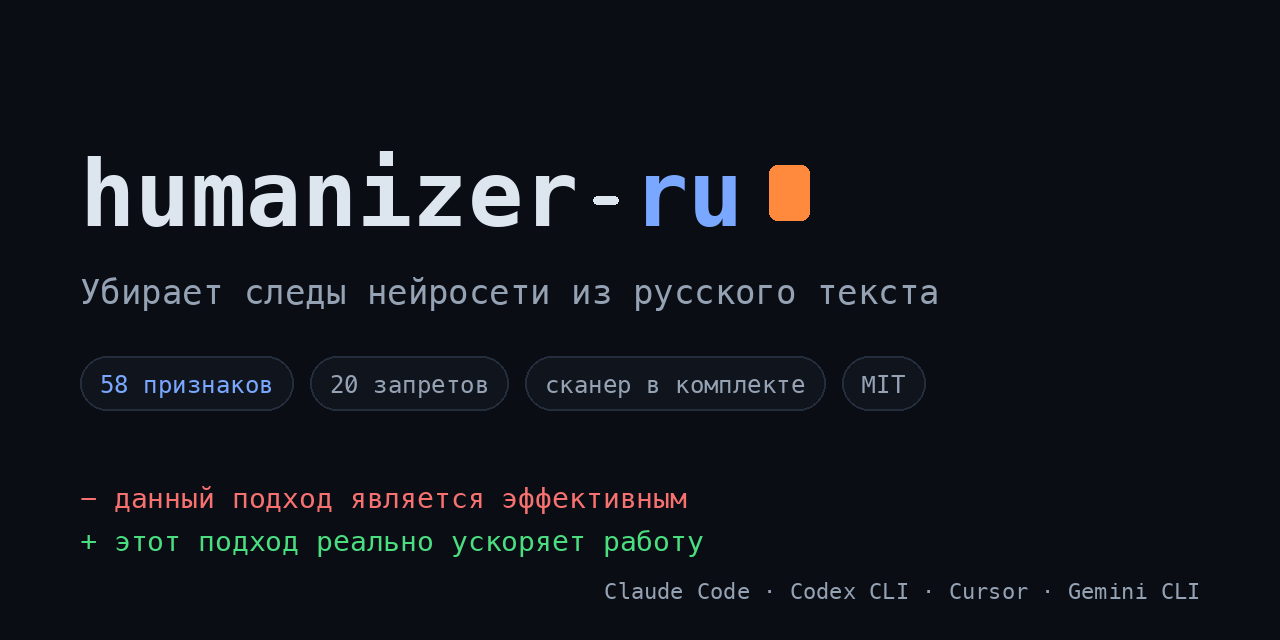
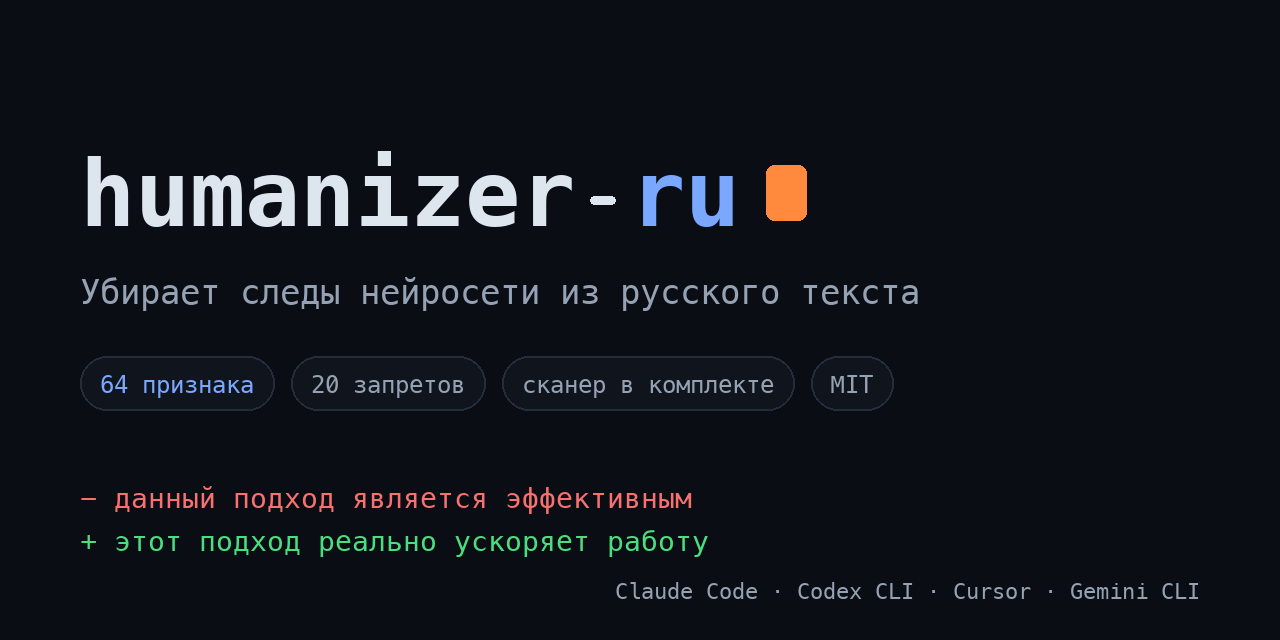
chore: счётчики 64/14 по витрине, превью пересобрано
bump_release.py --apply протащил 64 паттерна / 14 категорий по README,
docs и манифестам; падежные формы при новом числе поправлены руками
(64 признака, не «64 признаков»). make_social_preview.py теперь сам
склоняет подпись чипа по числу. В списки категорий README добавлена
строка N.

diff --git a/docs/52-priznaka-ai-teksta.html b/docs/52-priznaka-ai-teksta.html
@@ -3,19 +3,19 @@
 <head>
 <meta charset="utf-8">
 <meta name="viewport" content="width=device-width, initial-scale=1">
-<title>58 признаков AI-текста на русском: полный список</title>
-<meta name="description" content="Полный справочник: 58 признаков AI-текста на русском по 13 категориям. Канцелярит, кальки, «является», длинные тире, правило трёх, псевдо-терапия.">
+<title>64 признака AI-текста на русском: полный список</title>
+<meta name="description" content="Полный справочник: 64 признака AI-текста на русском по 14 категориям. Канцелярит, кальки, «является», длинные тире, правило трёх, псевдо-терапия.">
 <meta name="keywords" content="признаки нейросети в тексте, признаки ии в тексте, как определить текст нейросети, маркеры ai текста на русском, убрать признаки нейросети">
 <link rel="canonical" href="https://humanizer-ru.aifrontier.tech/52-priznaka-ai-teksta.html">
 <meta property="og:type" content="article">
-<meta property="og:title" content="58 признаков AI-текста на русском: полный список">
-<meta property="og:description" content="Справочник из 58 маркеров машинного текста на русском, сгруппированных по 13 категориям.">
+<meta property="og:title" content="64 признака AI-текста на русском: полный список">
+<meta property="og:description" content="Справочник из 64 маркеров машинного текста на русском, сгруппированных по 14 категориям.">
 <meta property="og:url" content="https://humanizer-ru.aifrontier.tech/52-priznaka-ai-teksta.html">
 <meta property="og:locale" content="ru_RU">
 <meta property="og:image" content="https://humanizer-ru.aifrontier.tech/social-preview.png">
 <meta name="twitter:card" content="summary_large_image">
-<meta name="twitter:title" content="58 признаков AI-текста на русском">
-<meta name="twitter:description" content="Полный справочник маркеров машинного текста по 13 категориям.">
+<meta name="twitter:title" content="64 признака AI-текста на русском">
+<meta name="twitter:description" content="Полный справочник маркеров машинного текста по 14 категориям.">
 <meta name="twitter:image" content="https://humanizer-ru.aifrontier.tech/social-preview.png">
 <link rel="icon" type="image/png" href="icon-128.png">
 <link rel="preconnect" href="https://fonts.googleapis.com">
@@ -25,8 +25,8 @@
 {
   "@context": "https://schema.org",
   "@type": "TechArticle",
-  "headline": "58 признаков AI-текста на русском: полный список",
-  "description": "Полный справочник из 58 признаков машинного текста на русском, сгруппированных по 13 категориям.",
+  "headline": "64 признака AI-текста на русском: полный список",
+  "description": "Полный справочник из 64 признаков машинного текста на русском, сгруппированных по 14 категориям.",
   "inLanguage": "ru",
   "author": { "@type": "Organization", "name": "humanizer-ru" },
   "publisher": { "@type": "Organization", "name": "humanizer-ru" },
@@ -40,7 +40,7 @@
   "@type": "BreadcrumbList",
   "itemListElement": [
     { "@type": "ListItem", "position": 1, "name": "Главная", "item": "https://humanizer-ru.aifrontier.tech/" },
-    { "@type": "ListItem", "position": 2, "name": "58 признаков AI-текста", "item": "https://humanizer-ru.aifrontier.tech/52-priznaka-ai-teksta.html" }
+    { "@type": "ListItem", "position": 2, "name": "64 признака AI-текста", "item": "https://humanizer-ru.aifrontier.tech/52-priznaka-ai-teksta.html" }
   ]
 }
 </script>
@@ -53,7 +53,7 @@
     <nav class="site-nav" aria-label="Основное меню">
       <a href="index.html">Главная</a>
       <a href="kak-ubrat-sledy-neyroseti.html">Убрать следы нейросети</a>
-      <a href="52-priznaka-ai-teksta.html" aria-current="page">58 признаков</a>
+      <a href="52-priznaka-ai-teksta.html" aria-current="page">64 признака</a>
       <a href="ai-detektory-na-russkom.html">AI-детекторы</a>
       <a href="antiplagiat-i-neyroset.html">Антиплагиат и ИИ</a>
     </nav>
@@ -72,11 +72,11 @@
 <div class="wrap">
 
   <nav class="crumbs" aria-label="Хлебные крошки">
-    <a href="index.html">Главная</a> / 58 признаков AI-текста
+    <a href="index.html">Главная</a> / 64 признака AI-текста
   </nav>
 
-  <h1>58 признаков AI-текста на русском</h1>
-  <p class="lede">Полный справочник маркеров машинного текста, сгруппированный по 13 категориям (A-M). Это основа, по которой работает скилл <a href="index.html">humanizer-ru</a>. Каждый пункт это одна строка: что именно выдаёт нейросеть.</p>
+  <h1>64 признака AI-текста на русском</h1>
+  <p class="lede">Полный справочник маркеров машинного текста, сгруппированный по 14 категориям (A-M). Это основа, по которой работает скилл <a href="index.html">humanizer-ru</a>. Каждый пункт это одна строка: что именно выдаёт нейросеть.</p>
 
   <div class="callout">
     <strong>Как пользоваться.</strong> Не нужно убирать всё подряд. Сначала жёсткие баны (длинное тире, «является», шаблонные открытия), потом стилистика и ритм. Как это делать руками, смотрите в гайде <a href="kak-ubrat-sledy-neyroseti.html">«Как убрать следы нейросети»</a>.
@@ -223,7 +223,7 @@
   </div>
 
   <h2>Что с этим делать</h2>
-  <p>Знать признаки это половина дела. Убирать их руками в каждом тексте долго. Скилл <a href="index.html">humanizer-ru</a> проходит по всем 58 пунктам автоматически и калибрует текст под голос автора. Практическую методику для ручной правки смотрите в гайде <a href="kak-ubrat-sledy-neyroseti.html">«Как убрать следы нейросети»</a>, а про надёжность проверки в статье <a href="ai-detektory-na-russkom.html">про AI-детекторы на русском</a>.</p>
+  <p>Знать признаки это половина дела. Убирать их руками в каждом тексте долго. Скилл <a href="index.html">humanizer-ru</a> проходит по всем 64 пунктам автоматически и калибрует текст под голос автора. Практическую методику для ручной правки смотрите в гайде <a href="kak-ubrat-sledy-neyroseti.html">«Как убрать следы нейросети»</a>, а про надёжность проверки в статье <a href="ai-detektory-na-russkom.html">про AI-детекторы на русском</a>.</p>
 
   <div class="cta-row">
     <a class="cta" href="https://github.com/ilyautov/humanizer-ru">Установить humanizer-ru</a>
@@ -255,7 +255,7 @@
         <h4>Материалы</h4>
         <ul>
           <li><a href="kak-ubrat-sledy-neyroseti.html">Убрать следы нейросети</a></li>
-          <li><a href="52-priznaka-ai-teksta.html">58 признаков AI-текста</a></li>
+          <li><a href="52-priznaka-ai-teksta.html">64 признака AI-текста</a></li>
           <li><a href="ai-detektory-na-russkom.html">AI-детекторы на русском</a></li>
           <li><a href="antiplagiat-i-neyroset.html">Антиплагиат и нейросеть</a></li>
         </ul>

diff --git a/docs/index.html b/docs/index.html
@@ -43,7 +43,7 @@
       "name": "Как очеловечить текст, написанный нейросетью?",
       "acceptedAnswer": {
         "@type": "Answer",
-        "text": "Уберите маркеры машинной генерации: канцелярит («является», «данный»), длинные тире, кальки с английского, ровный ритм предложений. Верните живой голос: частицы «же», «ведь», «вот», разную длину фраз, конкретику вместо абстракций. Скилл humanizer-ru делает это автоматически в Claude по 58 признакам AI-текста."
+        "text": "Уберите маркеры машинной генерации: канцелярит («является», «данный»), длинные тире, кальки с английского, ровный ритм предложений. Верните живой голос: частицы «же», «ведь», «вот», разную длину фраз, конкретику вместо абстракций. Скилл humanizer-ru делает это автоматически в Claude по 64 признакам AI-текста."
       }
     },
     {
@@ -82,7 +82,7 @@
     <nav class="site-nav" aria-label="Основное меню">
       <a href="index.html" aria-current="page">Главная</a>
       <a href="kak-ubrat-sledy-neyroseti.html">Убрать следы нейросети</a>
-      <a href="52-priznaka-ai-teksta.html">58 признаков</a>
+      <a href="52-priznaka-ai-teksta.html">64 признака</a>
       <a href="ai-detektory-na-russkom.html">AI-детекторы</a>
       <a href="antiplagiat-i-neyroset.html">Антиплагиат и ИИ</a>
     </nav>
@@ -135,7 +135,7 @@
 
   <h2>Что это и зачем</h2>
   <p>Текст из ChatGPT, Claude или другой нейросети читается одинаково: гладко и никак, будто музак в лифте. Канцелярит, кальки с английского, длинные тире, ровный ритм без сбоев. Человек так не пишет. Живой русский текст неровный: он спотыкается, перебивает сам себя, то ускоряется, то замедляется.</p>
-  <p>humanizer-ru делает текст человечным не косметически. Он убирает маркеры машинной генерации и одновременно возвращает автора: мнение, интонацию, конкретику. Под капотом каталог из 58 признаков AI-текста в 13 категориях, 20 жёстких запретов и калибровка под голос автора.</p>
+  <p>humanizer-ru делает текст человечным не косметически. Он убирает маркеры машинной генерации и одновременно возвращает автора: мнение, интонацию, конкретику. Под капотом каталог из 64 признаков AI-текста в 14 категориях, 20 жёстких запретов и калибровка под голос автора.</p>
 
   <h2>Для кого</h2>
   <div class="cards">
@@ -159,7 +159,7 @@
 
   <h2 id="kak-rabotaet">Как это работает: три режима</h2>
   <ol>
-    <li><strong>Полное редактирование.</strong> Режим по умолчанию: проходит по всем 58 признакам, калибрует текст под голос автора, выравнивает ритм (поднимает burstiness), снимает канцелярит и кальки.</li>
+    <li><strong>Полное редактирование.</strong> Режим по умолчанию: проходит по всем 64 признакам, калибрует текст под голос автора, выравнивает ритм (поднимает burstiness), снимает канцелярит и кальки.</li>
     <li><strong>Точечная правка.</strong> Только указанная категория: например, убрать канцелярит или вычистить 20 жёстких запретов («является», «в современном мире», длинное тире). Остальное не трогается.</li>
     <li><strong>Аудит без правки.</strong> Скилл показывает, какие маркеры нейросети есть в тексте и где, не переписывая. Полезно, чтобы понять, что именно вас выдаёт.</li>
   </ol>
@@ -188,8 +188,8 @@
       <p>Практическое руководство с конкретными до/после: канцелярит, тире, ритм, частицы.</p>
     </div>
     <div class="card">
-      <h3><a href="52-priznaka-ai-teksta.html">58 признаков AI-текста</a></h3>
-      <p>Полный справочник маркеров на русском, сгруппированный по 13 категориям.</p>
+      <h3><a href="52-priznaka-ai-teksta.html">64 признака AI-текста</a></h3>
+      <p>Полный справочник маркеров на русском, сгруппированный по 14 категориям.</p>
     </div>
     <div class="card">
       <h3><a href="ai-detektory-na-russkom.html">Работают ли AI-детекторы на русском</a></h3>
@@ -205,7 +205,7 @@
   <div class="faq">
     <details>
       <summary>Как очеловечить текст, написанный нейросетью?</summary>
-      <p>Уберите маркеры машинной генерации: канцелярит («является», «данный»), длинные тире, кальки с английского, ровный ритм предложений. Верните живой голос: частицы «же», «ведь», «вот», разную длину фраз, конкретику вместо абстракций. Скилл humanizer-ru делает это автоматически в Claude по 58 признакам AI-текста.</p>
+      <p>Уберите маркеры машинной генерации: канцелярит («является», «данный»), длинные тире, кальки с английского, ровный ритм предложений. Верните живой голос: частицы «же», «ведь», «вот», разную длину фраз, конкретику вместо абстракций. Скилл humanizer-ru делает это автоматически в Claude по 64 признакам AI-текста.</p>
     </details>
     <details>
       <summary>humanizer-ru работает бесплатно?</summary>
@@ -250,7 +250,7 @@
         <h4>Материалы</h4>
         <ul>
           <li><a href="kak-ubrat-sledy-neyroseti.html">Убрать следы нейросети</a></li>
-          <li><a href="52-priznaka-ai-teksta.html">58 признаков AI-текста</a></li>
+          <li><a href="52-priznaka-ai-teksta.html">64 признака AI-текста</a></li>
           <li><a href="ai-detektory-na-russkom.html">AI-детекторы на русском</a></li>
           <li><a href="antiplagiat-i-neyroset.html">Антиплагиат и нейросеть</a></li>
         </ul>

diff --git a/docs/kak-ubrat-sledy-neyroseti.html b/docs/kak-ubrat-sledy-neyroseti.html
@@ -56,7 +56,7 @@
     <nav class="site-nav" aria-label="Основное меню">
       <a href="index.html">Главная</a>
       <a href="kak-ubrat-sledy-neyroseti.html" aria-current="page">Убрать следы нейросети</a>
-      <a href="52-priznaka-ai-teksta.html">58 признаков</a>
+      <a href="52-priznaka-ai-teksta.html">64 признака</a>
       <a href="ai-detektory-na-russkom.html">AI-детекторы</a>
       <a href="antiplagiat-i-neyroset.html">Антиплагиат и ИИ</a>
     </nav>
@@ -137,14 +137,14 @@
   </ul>
 
   <h2>Полный список маркеров</h2>
-  <p>Эти пять шагов закрывают основное, но признаков машинного текста больше. Полный справочник из 58 пунктов по 13 категориям на отдельной странице: <a href="52-priznaka-ai-teksta.html">58 признаков AI-текста на русском</a>.</p>
+  <p>Эти пять шагов закрывают основное, но признаков машинного текста больше. Полный справочник из 64 пунктов по 14 категориям на отдельной странице: <a href="52-priznaka-ai-teksta.html">64 признака AI-текста на русском</a>.</p>
 
   <h2>Сделать всё автоматически</h2>
-  <p>Перебирать 58 маркеров руками в длинном тексте утомительно. Скилл <a href="index.html">humanizer-ru</a> делает это за один проход прямо в Claude (Claude Code, Cowork или API): убирает следы нейросети, калибрует под голос автора, проверяет, что смысл и цифры на месте. Бесплатный, open-source, лицензия MIT.</p>
+  <p>Перебирать 64 маркера руками в длинном тексте утомительно. Скилл <a href="index.html">humanizer-ru</a> делает это за один проход прямо в Claude (Claude Code, Cowork или API): убирает следы нейросети, калибрует под голос автора, проверяет, что смысл и цифры на месте. Бесплатный, open-source, лицензия MIT.</p>
 
   <div class="cta-row">
     <a class="cta" href="https://github.com/ilyautov/humanizer-ru">Установить humanizer-ru</a>
-    <a class="cta-secondary" href="52-priznaka-ai-teksta.html">58 признаков AI-текста →</a>
+    <a class="cta-secondary" href="52-priznaka-ai-teksta.html">64 признака AI-текста →</a>
   </div>
 
   <section class="tg-banner">
@@ -172,7 +172,7 @@
         <h4>Материалы</h4>
         <ul>
           <li><a href="kak-ubrat-sledy-neyroseti.html">Убрать следы нейросети</a></li>
-          <li><a href="52-priznaka-ai-teksta.html">58 признаков AI-текста</a></li>
+          <li><a href="52-priznaka-ai-teksta.html">64 признака AI-текста</a></li>
           <li><a href="ai-detektory-na-russkom.html">AI-детекторы на русском</a></li>
           <li><a href="antiplagiat-i-neyroset.html">Антиплагиат и нейросеть</a></li>
         </ul>

diff --git a/docs/ai-detektory-na-russkom.html b/docs/ai-detektory-na-russkom.html
@@ -93,7 +93,7 @@
     <nav class="site-nav" aria-label="Основное меню">
       <a href="index.html">Главная</a>
       <a href="kak-ubrat-sledy-neyroseti.html">Убрать следы нейросети</a>
-      <a href="52-priznaka-ai-teksta.html">58 признаков</a>
+      <a href="52-priznaka-ai-teksta.html">64 признака</a>
       <a href="ai-detektory-na-russkom.html" aria-current="page">AI-детекторы</a>
       <a href="antiplagiat-i-neyroset.html">Антиплагиат и ИИ</a>
     </nav>
@@ -167,7 +167,7 @@
       <p>Сделать текст лучше для читателя: убрать канцелярит, вернуть голос и ритм. Это полезно независимо от любых детекторов и не устаревает.</p>
     </div>
   </div>
-  <p>Именно поэтому <a href="index.html">humanizer-ru</a> метит в качество, а не в «ноль по GPTZero». Скилл убирает <a href="52-priznaka-ai-teksta.html">58 признаков AI-текста</a>, поднимает burstiness и возвращает авторский голос. Текст становится приятнее читать, а заодно естественно перестаёт быть похожим на машинный. Но это побочный эффект качества, а не самоцель.</p>
+  <p>Именно поэтому <a href="index.html">humanizer-ru</a> метит в качество, а не в «ноль по GPTZero». Скилл убирает <a href="52-priznaka-ai-teksta.html">64 признака AI-текста</a>, поднимает burstiness и возвращает авторский голос. Текст становится приятнее читать, а заодно естественно перестаёт быть похожим на машинный. Но это побочный эффект качества, а не самоцель.</p>
 
   <h2>Что делать на практике</h2>
   <ul>
@@ -231,7 +231,7 @@
         <h4>Материалы</h4>
         <ul>
           <li><a href="kak-ubrat-sledy-neyroseti.html">Убрать следы нейросети</a></li>
-          <li><a href="52-priznaka-ai-teksta.html">58 признаков AI-текста</a></li>
+          <li><a href="52-priznaka-ai-teksta.html">64 признака AI-текста</a></li>
           <li><a href="ai-detektory-na-russkom.html">AI-детекторы на русском</a></li>
           <li><a href="antiplagiat-i-neyroset.html">Антиплагиат и нейросеть</a></li>
         </ul>

diff --git a/docs/antiplagiat-i-neyroset.html b/docs/antiplagiat-i-neyroset.html
@@ -93,7 +93,7 @@
     <nav class="site-nav" aria-label="Основное меню">
       <a href="index.html">Главная</a>
       <a href="kak-ubrat-sledy-neyroseti.html">Убрать следы нейросети</a>
-      <a href="52-priznaka-ai-teksta.html">58 признаков</a>
+      <a href="52-priznaka-ai-teksta.html">64 признака</a>
       <a href="ai-detektory-na-russkom.html">AI-детекторы</a>
       <a href="antiplagiat-i-neyroset.html" aria-current="page">Антиплагиат и ИИ</a>
     </nav>
@@ -239,7 +239,7 @@
         <h4>Материалы</h4>
         <ul>
           <li><a href="kak-ubrat-sledy-neyroseti.html">Убрать следы нейросети</a></li>
-          <li><a href="52-priznaka-ai-teksta.html">58 признаков AI-текста</a></li>
+          <li><a href="52-priznaka-ai-teksta.html">64 признака AI-текста</a></li>
           <li><a href="ai-detektory-na-russkom.html">AI-детекторы на русском</a></li>
           <li><a href="antiplagiat-i-neyroset.html">Антиплагиат и нейросеть</a></li>
         </ul>

diff --git a/scripts/make_social_preview.py b/scripts/make_social_preview.py
@@ -65,6 +65,17 @@ def counters() -> tuple[int, int]:
     return patterns, len(HARD_BANS)
 
 
+def _plural(n: int, one: str, few: str, many: str) -> str:
+    """Русское согласование числительного: 51 признак, 64 признака, 58 признаков."""
+    if n % 100 in range(11, 15):
+        return many
+    if n % 10 == 1:
+        return one
+    if n % 10 in (2, 3, 4):
+        return few
+    return many
+
+
 def _font(path: str, size: int, bold: bool = False):
     from PIL import ImageFont
 
@@ -106,8 +117,8 @@ def draw(patterns: int, bans: int) -> None:
     d.text((80, 272), "Убирает следы нейросети из русского текста", font=sub, fill=TEXT_DIM)
 
     chips = [
-        (f"{patterns} признаков", ACCENT),
-        (f"{bans} запретов", TEXT_DIM),
+        (f"{patterns} {_plural(patterns, 'признак', 'признака', 'признаков')}", ACCENT),
+        (f"{bans} {_plural(bans, 'запрет', 'запрета', 'запретов')}", TEXT_DIM),
         ("сканер в комплекте", TEXT_DIM),
         ("MIT", TEXT_DIM),
     ]
@@ -128,7 +139,8 @@ def draw(patterns: int, bans: int) -> None:
     im.save(OUT_SITE)
     STAMP.write_text(f"{patterns}/{bans}\n", encoding="utf-8")
     print(f"[ok] {OUT.relative_to(ROOT)} и {OUT_SITE.relative_to(ROOT)}: "
-          f"{patterns} признаков, {bans} запретов")
+          f"{patterns} {_plural(patterns, 'признак', 'признака', 'признаков')}, "
+          f"{bans} {_plural(bans, 'запрет', 'запрета', 'запретов')}")
 
 
 def main() -> int:

diff --git a/README.md b/README.md
@@ -1,6 +1,6 @@
 # humanizer-ru: очеловечить русский AI-текст для Claude Code, Cursor, Codex и других AI-агентов
 
-> Скилл для Claude. Убирает 58 признаков нейросети в русском тексте: канцелярит, кальки, фингерпринты ChatGPT и Claude. Метит в то, что меряют GPTZero, DivEye, RuBERT: поднимает perplexity и burstiness. 20 жёстких банов, quad-pass аудит, калибровка под голос автора, eval-харнес с метриками до/после.
+> Скилл для Claude. Убирает 64 признака нейросети в русском тексте: канцелярит, кальки, фингерпринты ChatGPT и Claude. Метит в то, что меряют GPTZero, DivEye, RuBERT: поднимает perplexity и burstiness. 20 жёстких банов, quad-pass аудит, калибровка под голос автора, eval-харнес с метриками до/после.
 
 > [English version](README.en.md)
 
@@ -11,7 +11,7 @@
 
 <p align="center">
   <a href="https://humanizer-ru.aifrontier.tech/">
-    <img src="assets/social-preview.png" alt="humanizer-ru: убирает следы нейросети из русского текста. 58 признаков, 20 запретов, сканер в комплекте" width="720">
+    <img src="assets/social-preview.png" alt="humanizer-ru: убирает следы нейросети из русского текста. 64 признака, 20 запретов, сканер в комплекте" width="720">
   </a>
 </p>
 
@@ -20,7 +20,7 @@
 >
 > Три жёстких бана в одном предложении. [Полный разбор с режимом аудита ниже](#до-и-после).
 
-📖 **Документация и разборы:** [humanizer-ru.aifrontier.tech](https://humanizer-ru.aifrontier.tech/): [работают ли AI-детекторы на русском](https://humanizer-ru.aifrontier.tech/ai-detektory-na-russkom.html), [58 признаков AI-текста](https://humanizer-ru.aifrontier.tech/52-priznaka-ai-teksta.html), [антиплагиат и нейросеть](https://humanizer-ru.aifrontier.tech/antiplagiat-i-neyroset.html).
+📖 **Документация и разборы:** [humanizer-ru.aifrontier.tech](https://humanizer-ru.aifrontier.tech/): [работают ли AI-детекторы на русском](https://humanizer-ru.aifrontier.tech/ai-detektory-na-russkom.html), [64 признака AI-текста](https://humanizer-ru.aifrontier.tech/52-priznaka-ai-teksta.html), [антиплагиат и нейросеть](https://humanizer-ru.aifrontier.tech/antiplagiat-i-neyroset.html).
 
 ## Зачем это нужно
 
@@ -30,7 +30,7 @@
 
 ## Что внутри
 
-**58 паттернов AI-генерации в 13 категориях:**
+**64 паттерна AI-генерации в 14 категориях:**
 
 - A. Контентные: пустые открытия, размытые авторитеты, формульные выводы
 - B. Языковые: канцелярит, кальки, «является», нагромождение причастий
@@ -45,6 +45,7 @@
 - K. Хеджирование и специфика: модальная неопределённость, translationese, нет идиом
 - L. Стилистические фингерпринты 2025-2026: рваная медитативность, контр-вопросы, эмодзи-декор, псевдо-терапия, пустой образ, самомаркировка честности
 - M. Формулы и артефакты 2026: неодушевлённый субъект, Title Case в заголовках, обрыв на полуслове, триада-отрицание
+- N. Дискурсный слой: явная мораль в финале, портретный ввод героя, бесшовная причинность, линейная хронология. Признаки, которые переживают стилевую правку (StoryScope, COLM 2026)
 
 **20 жёстких банов**: конструкции с абсолютным запретом. От «В современном мире...» и «Стоит отметить, что...» до маркетинговых клише «Раскрыть потенциал», «Комплексный подход», «Открывает новые горизонты».
 
@@ -53,7 +54,7 @@
 **Калибровка под голос автора.** Если дать образцы своего письма, скилл анализирует ритм, лексику, любимые обороты, пунктуацию, тон и применяет ваш стиль вместо средне-нейтрального.
 
 **Три режима работы:**
-- Полное редактирование (по умолчанию): все 58 паттернов
+- Полное редактирование (по умолчанию): все 64 паттерна
 - Аудит: только диагностика, текст не трогает
 - Точечная правка: работа с одной категорией
 
@@ -236,7 +237,7 @@ GPTZero, Originality.ai, ZeroGPT и другие популярные детек
 
 **Как обойти GPTZero на русском?** GPTZero измеряет perplexity и burstiness. Скилл поднимает оба показателя: контрастное вычитание (замена самого предсказуемого слова в каждом предложении) повышает perplexity, рваный ритм с короткими и длинными предложениями повышает burstiness. Адверсарный парафраз снижает true positive rate детекторов на 87.88% по NeurIPS 2025.
 
-**Как убрать признаки ChatGPT из текста?** Главные сигналы: «не просто X, а Y» (80%+ AI-текстов), «стоит отметить», «является», длинное тире, отсутствие частиц «же/ведь/вот», равномерная информационная плотность. Скилл ловит и заменяет все 58 паттернов.
+**Как убрать признаки ChatGPT из текста?** Главные сигналы: «не просто X, а Y» (80%+ AI-текстов), «стоит отметить», «является», длинное тире, отсутствие частиц «же/ведь/вот», равномерная информационная плотность. Скилл ловит и заменяет все 64 паттерна.
 
 **Как сделать текст ChatGPT человеческим на русском?** Три шага: убрать 20 жёстких банов, пройти контрастным вычитанием (одна замена на предложение), добавить речевые привычки (частицы, иронию, личное мнение, метафоры). Калибровка под голос автора усиливает эффект.
 
@@ -259,7 +260,7 @@ GPTZero, Originality.ai, ZeroGPT и другие популярные детек
 | | humanizer-ru | blader/humanizer |
 |---|---|---|
 | Язык | Русский | Английский |
-| Паттернов | 58 | 32 |
+| Паттернов | 64 | 32 |
 | Жёстких банов | 20 | - |
 | Аудит | Quad-pass | Single-pass |
 | Voice calibration | Да | Да |

diff --git a/README.en.md b/README.en.md
@@ -11,15 +11,15 @@ Claude Code / Cowork plugin. Kills AI smell in Russian text. The English [humani
 
 <p align="center">
   <a href="https://humanizer-ru.aifrontier.tech/">
-    <img src="assets/social-preview.png" alt="humanizer-ru: removes AI tells from Russian text. 58 patterns, 20 hard bans, scanner included" width="720">
+    <img src="assets/social-preview.png" alt="humanizer-ru: removes AI tells from Russian text. 64 patterns, 20 hard bans, scanner included" width="720">
   </a>
 </p>
 
-📖 **Docs & write-ups (RU):** [humanizer-ru.aifrontier.tech](https://humanizer-ru.aifrontier.tech/): do AI detectors work on Russian, the 58 markers, plagiarism vs AI detection.
+📖 **Docs & write-ups (RU):** [humanizer-ru.aifrontier.tech](https://humanizer-ru.aifrontier.tech/): do AI detectors work on Russian, the 64 markers, plagiarism vs AI detection.
 
 ## What you get
 
-58 patterns across 13 categories: канцелярит, English calques, emotional sterility, persuasion tricks, information rhythm, hedging specifics, plus the 2025-2026 stylistic fingerprints (jagged-meditation single-word sentences, pseudo-Socratic Q-A chains, decorative emoji per list item, pseudo-therapeutic register) and the 2026 formulas (inanimate subject, Title Case headings, mid-sentence truncation, negation triad). 20 hard-banned constructions that scream "GPT wrote this", including em-dashes (detectors count their frequency). A research-backed section on how detectors actually work (perplexity, burstiness, morphology) with verified numbers from DivEye, PIFE, AINL-Eval 2025 (every citation checked, see SOURCES.md). Five article formulas. Voice calibration. Quad-pass audit with a "Skeleton" pass that reads only the first lines of list items to catch templated openings.
+64 patterns across 14 categories: канцелярит, English calques, emotional sterility, persuasion tricks, information rhythm, hedging specifics, plus the 2025-2026 stylistic fingerprints (jagged-meditation single-word sentences, pseudo-Socratic Q-A chains, decorative emoji per list item, pseudo-therapeutic register) and the 2026 formulas (inanimate subject, Title Case headings, mid-sentence truncation, negation triad), plus a discourse layer (explicit final moral, portrait-style character introduction, seamless causal chains: narrative signals that survive stylistic rewriting, per StoryScope / COLM 2026). 20 hard-banned constructions that scream "GPT wrote this", including em-dashes (detectors count their frequency). A research-backed section on how detectors actually work (perplexity, burstiness, morphology) with verified numbers from DivEye, PIFE, AINL-Eval 2025 (every citation checked, see SOURCES.md). Five article formulas. Voice calibration. Quad-pass audit with a "Skeleton" pass that reads only the first lines of list items to catch templated openings.
 
 ## Install
 
@@ -107,7 +107,7 @@ Generic path for native readers: drop the skill folder into the directory the ag
 
 ## Modes
 
-- **Full rewrite** (default): all 58 patterns, voice calibration, quad-pass audit.
+- **Full rewrite** (default): all 64 patterns, voice calibration, quad-pass audit.
 - **Audit**: diagnosis only, returns detected patterns with priority A-D.
 - **Targeted fix**: works on a specific category only.
 
